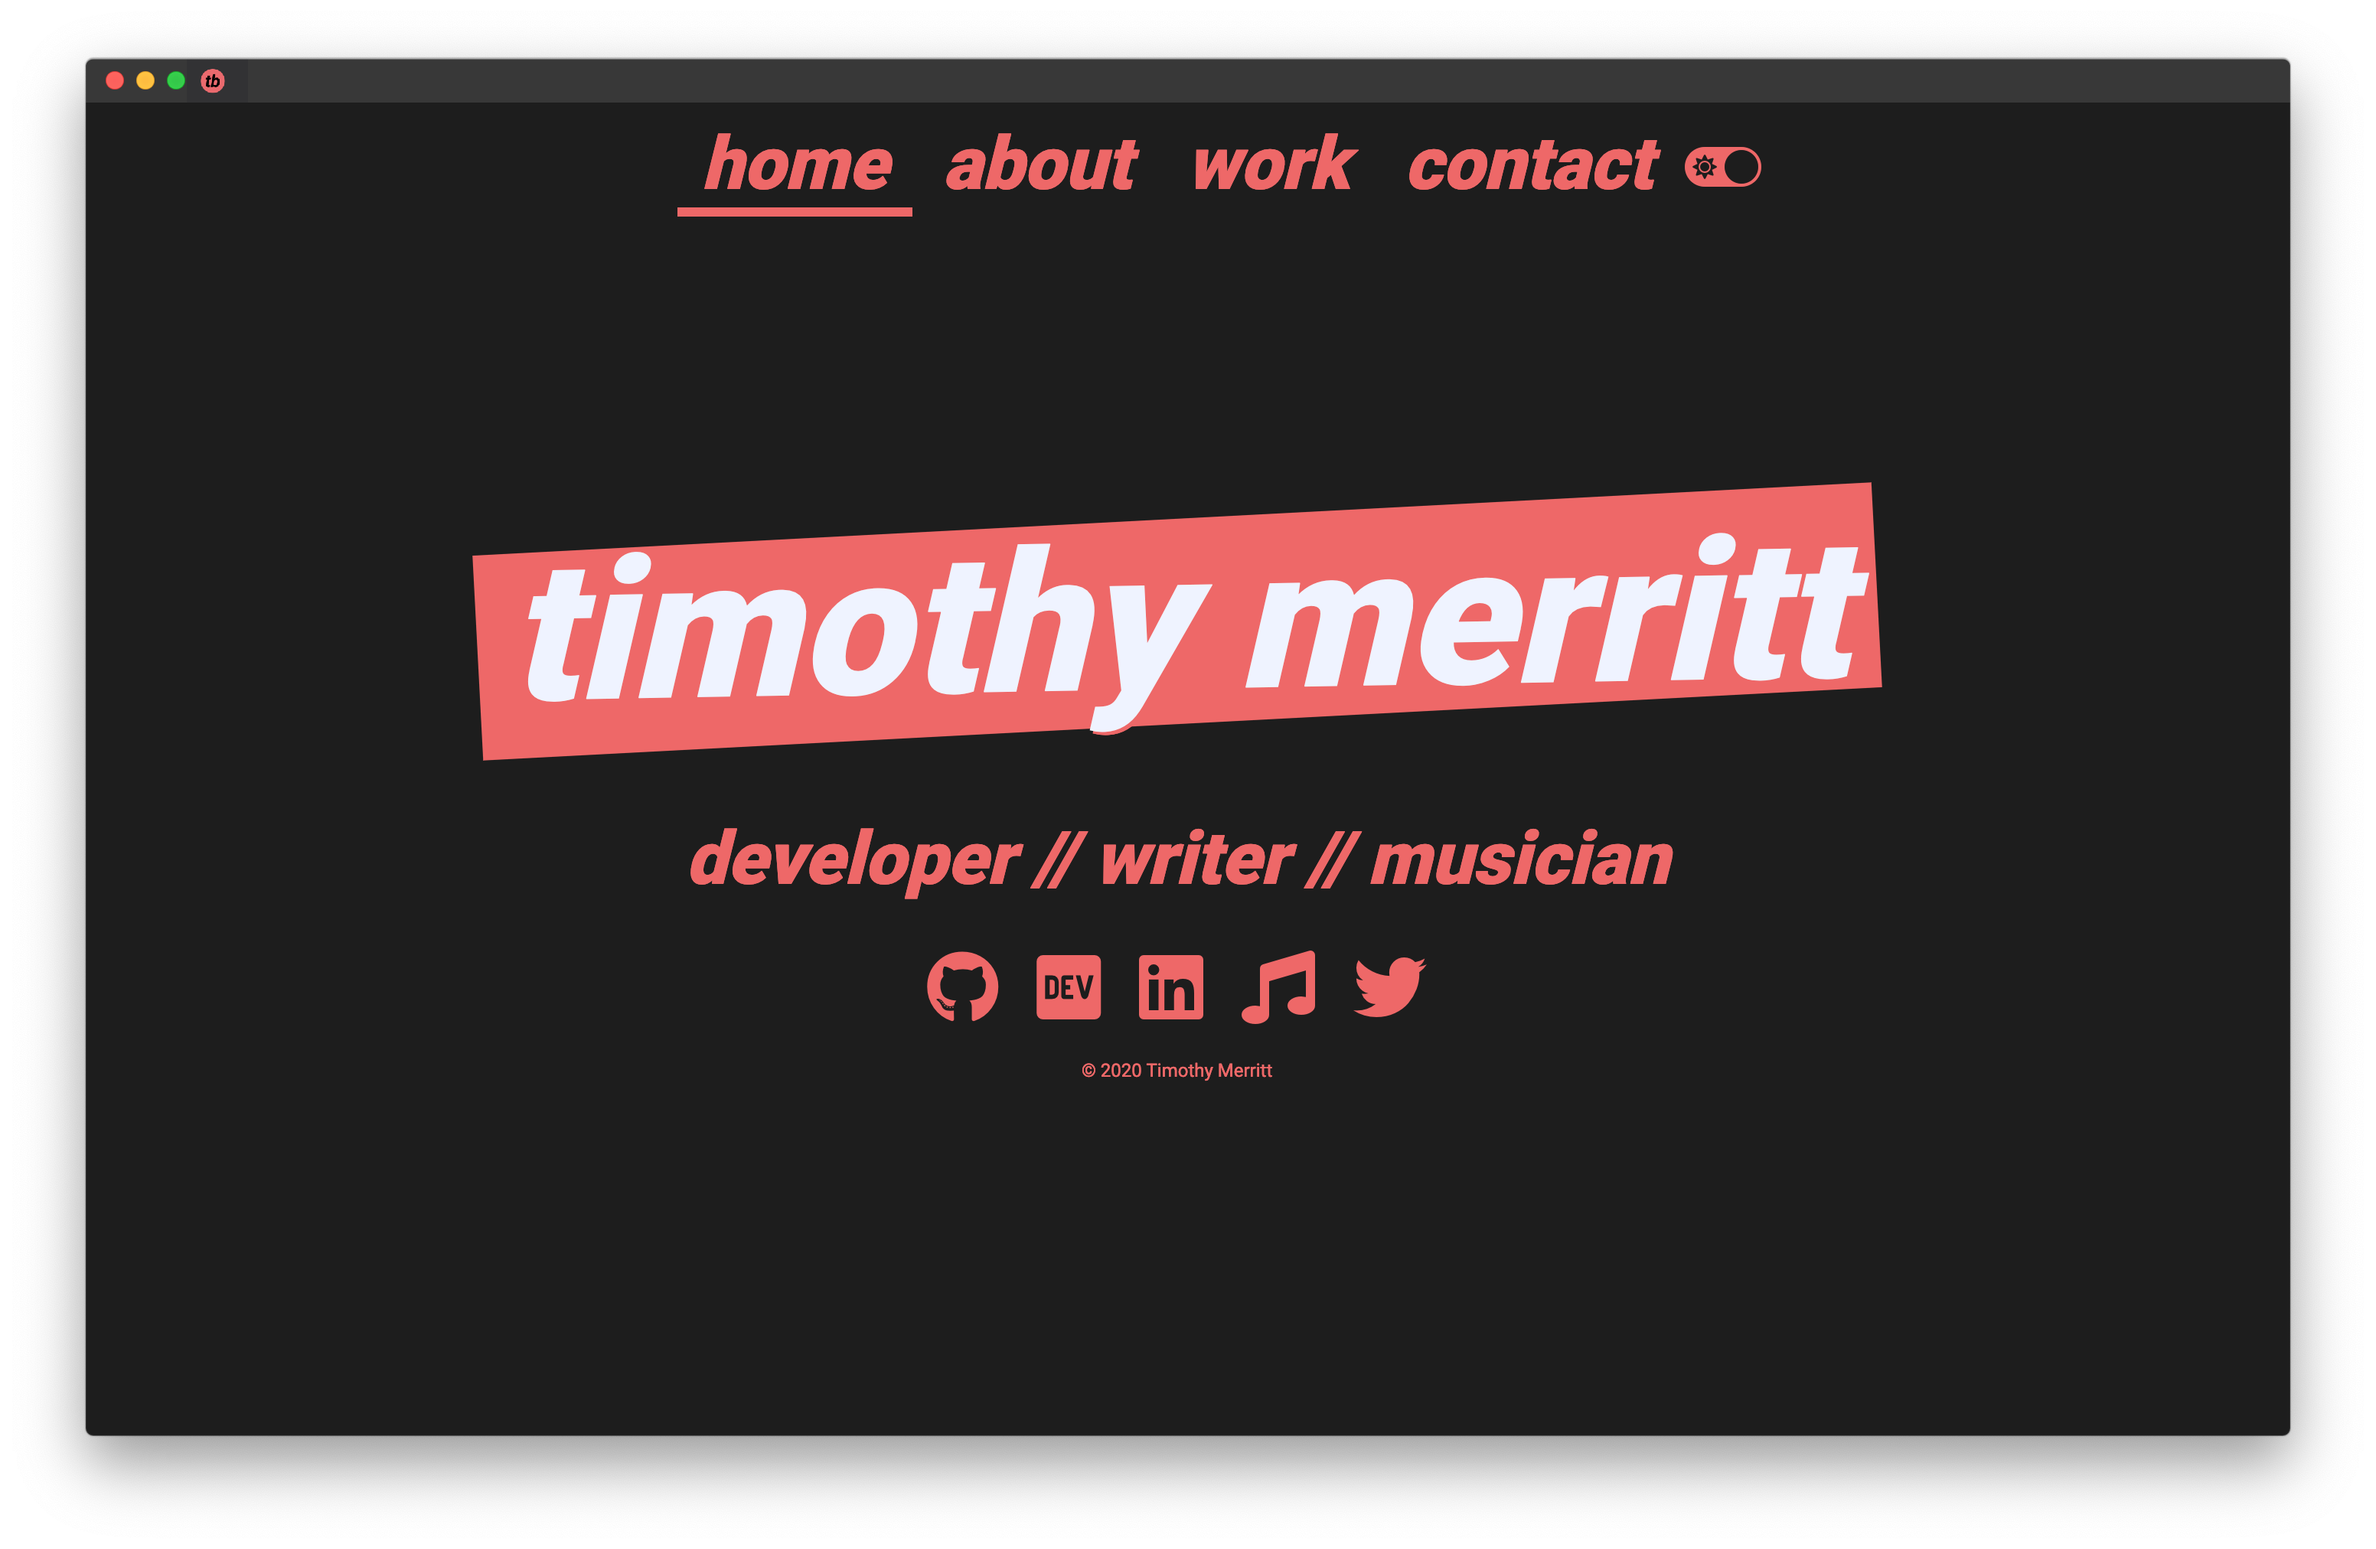
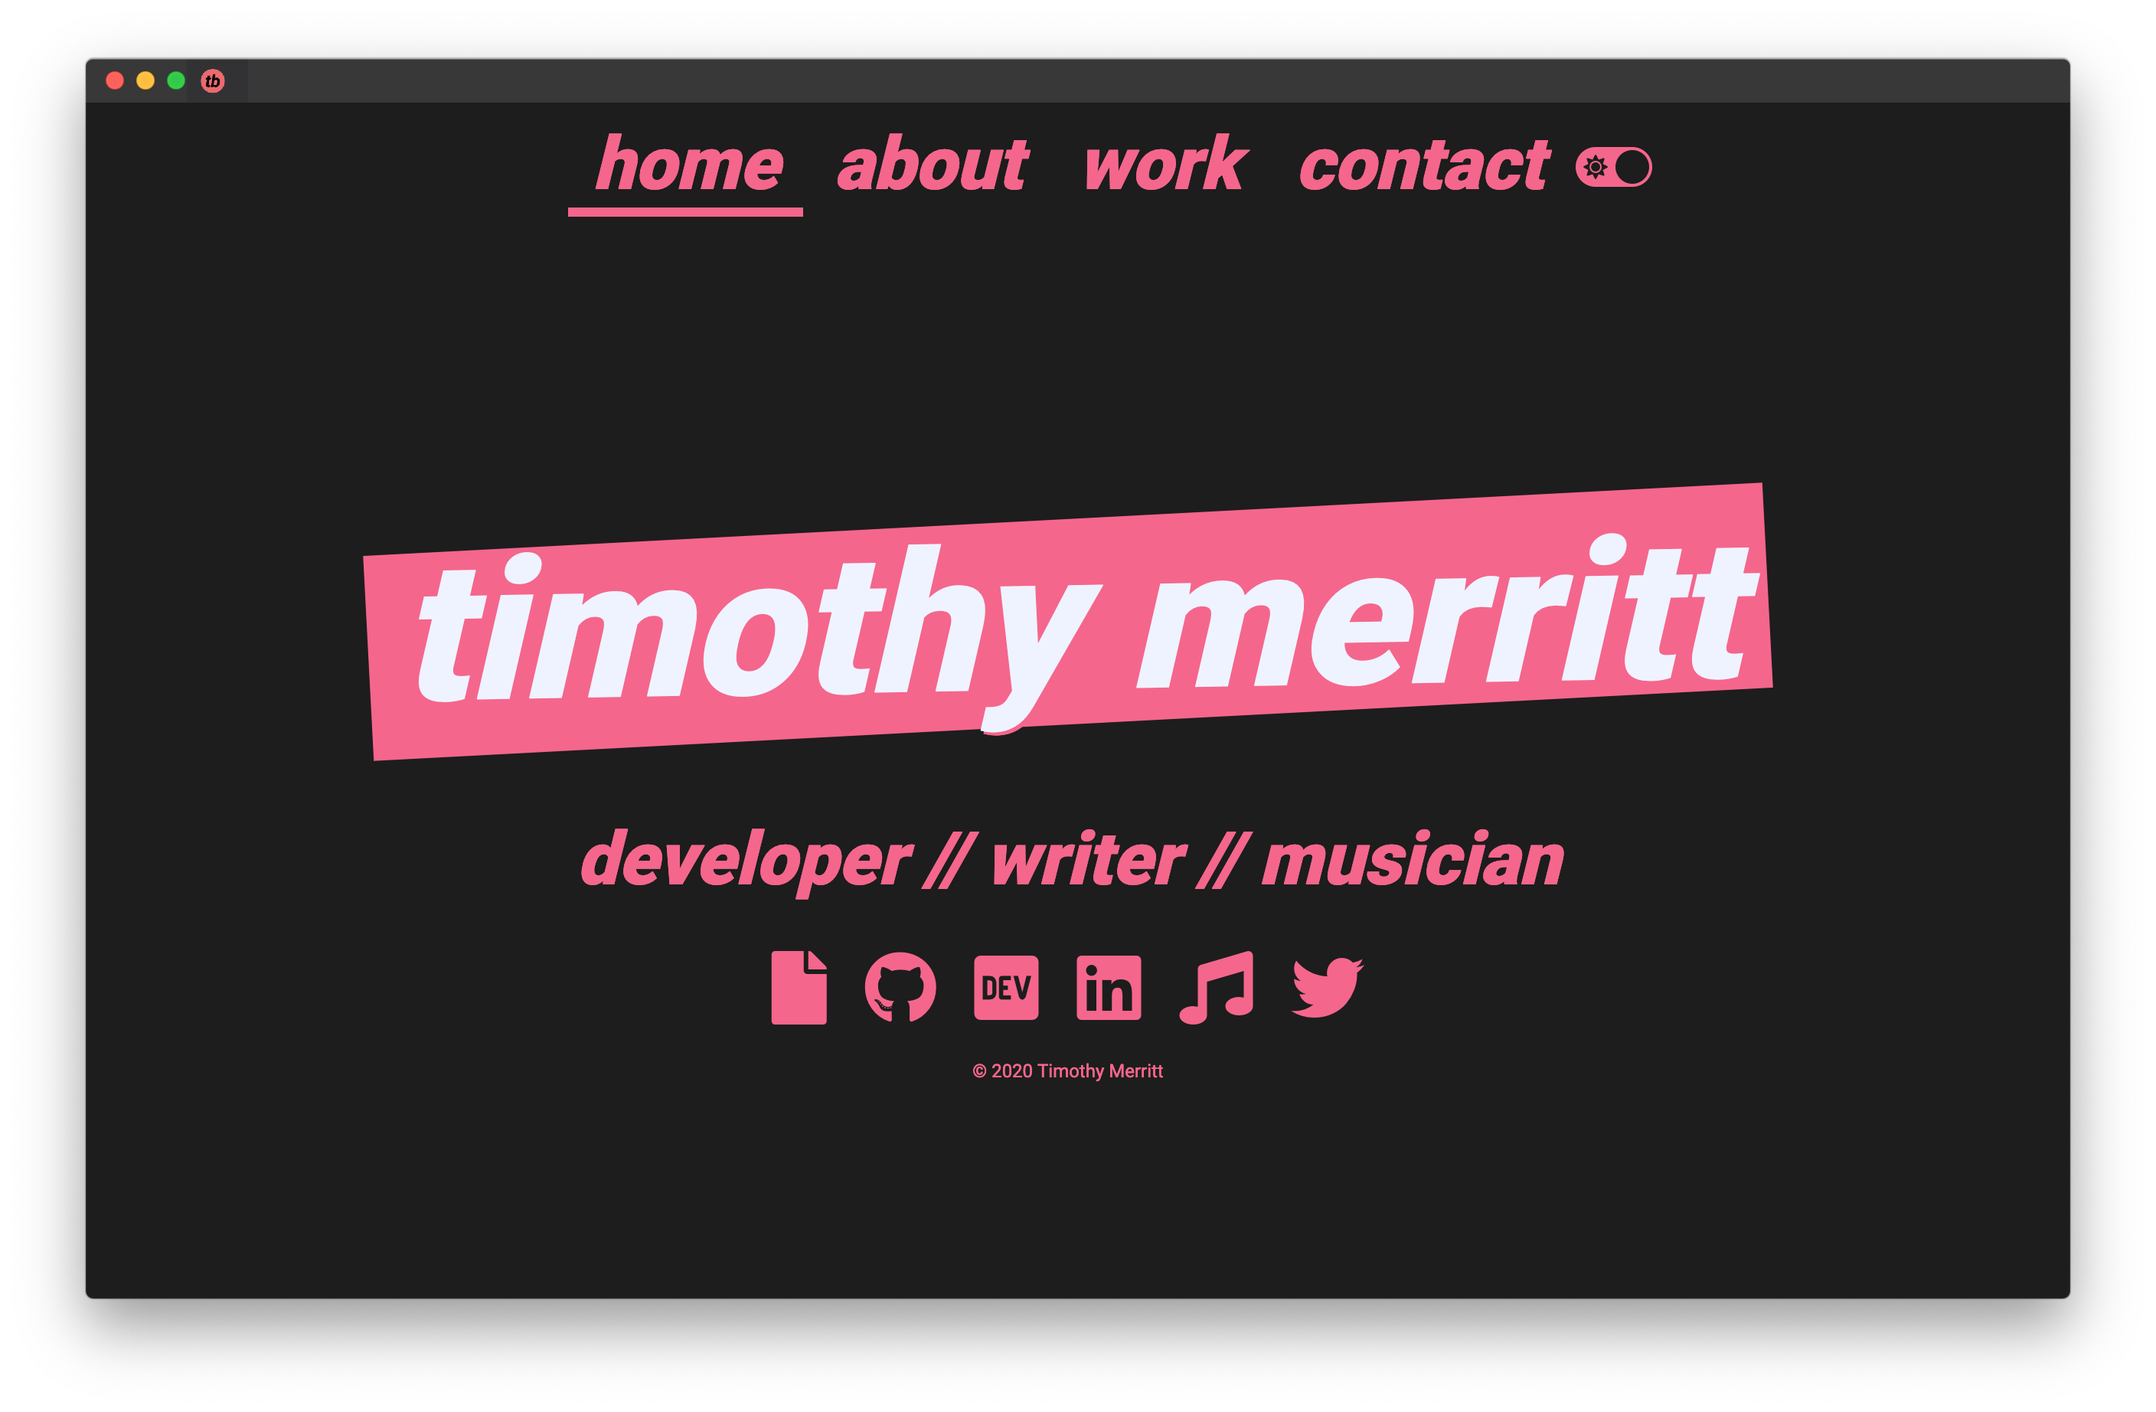
(refactor): Update imgs with new color

Changed region(s): [[0.1562, 0.3091, 0.8438, 0.7728], [0.0312, 0.0309, 0.9688, 0.9273]]

diff --git a/README.md b/README.md
@@ -1,5 +1,5 @@
 <h1 align="center">
-  <img src="./img/timmybytes-header-subtitle.png" alt="Timmybytes logo banner, which reads: timmybytes, developer, writer, musician" />
+  <img src="./img/timmybytes-header.png" alt="Timmybytes logo banner, which reads: timmybytes, developer, writer, musician" />
 </h1>
 
 <div align="center">
